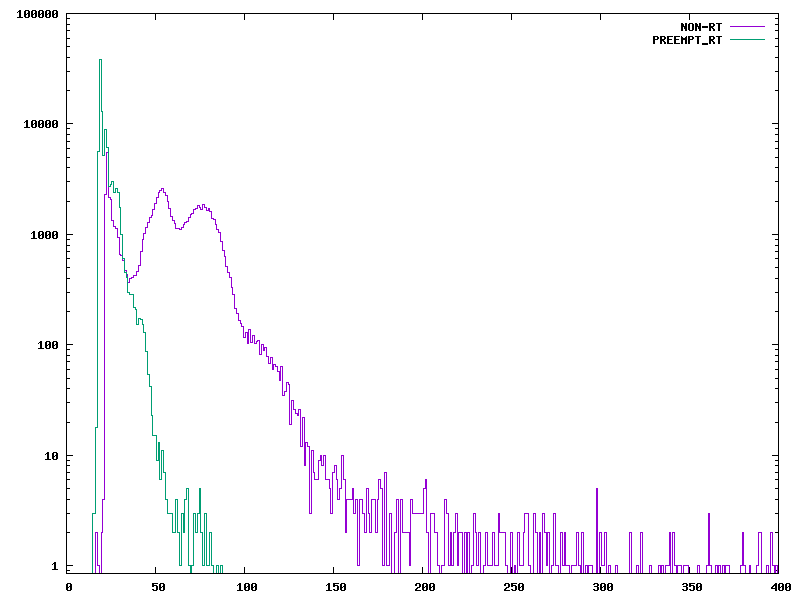
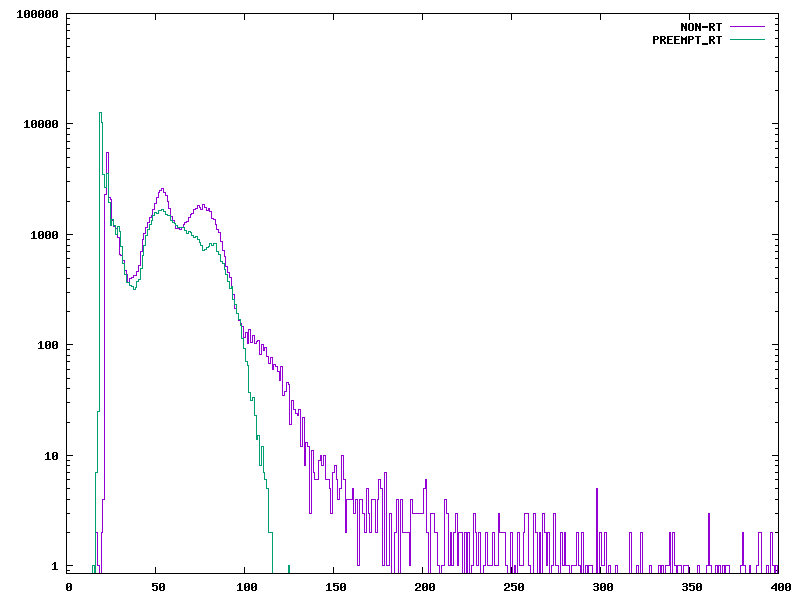
Added RT data and plot

diff --git a/hw06/README.md b/hw06/README.md
@@ -19,17 +19,25 @@ Pictochat with Zach Forster and Brendan Mulholland
 11. The scheduler is forced to give the small program priority to call the task in the non-hardIRQ space.
 
 ## RT Kernel
-Non-RT kernel
+Non-RT kernel (Under load)
    
-      real	1m40.198s
-      user	0m1.638s
-      sys	0m7.558s
+	real	1m40.198s
+	user	0m1.638s
+	sys	0m7.558s
 
-RT kernel
+(Forgot to run no load test before rebooting with RT kernel)
+
+RT kernel 
 
 	real	1m43.594s
 	user	0m0.595s
 	sys	0m3.979s
+
+RT kernel (Under load)
+	
+	real	1m40.252s
+	user	0m0.986s
+	sys	0m6.928s
 
 ## Prof. Yoder's comments
 
